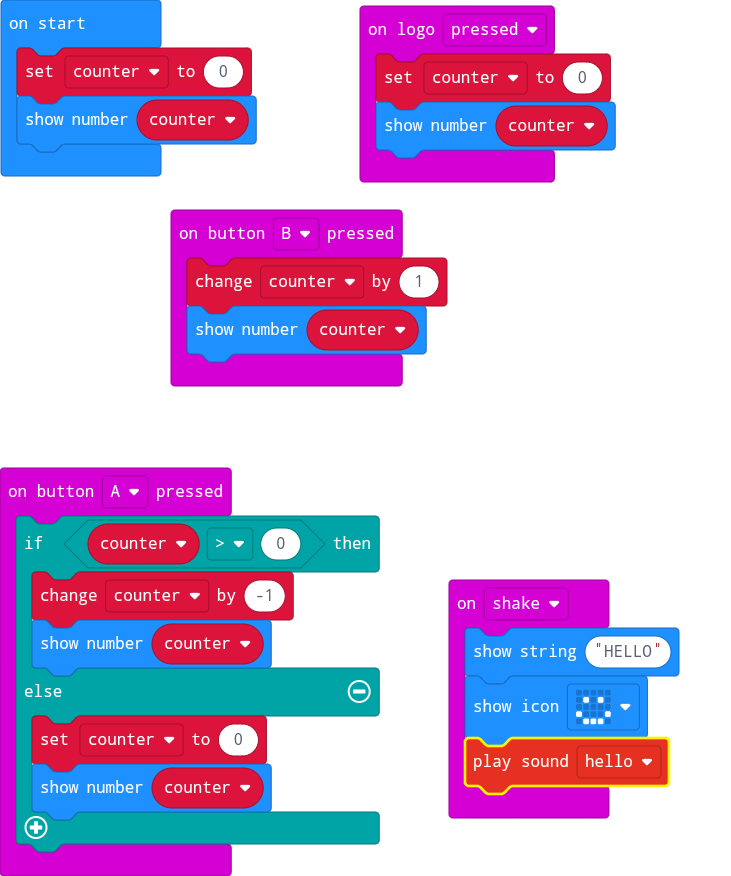
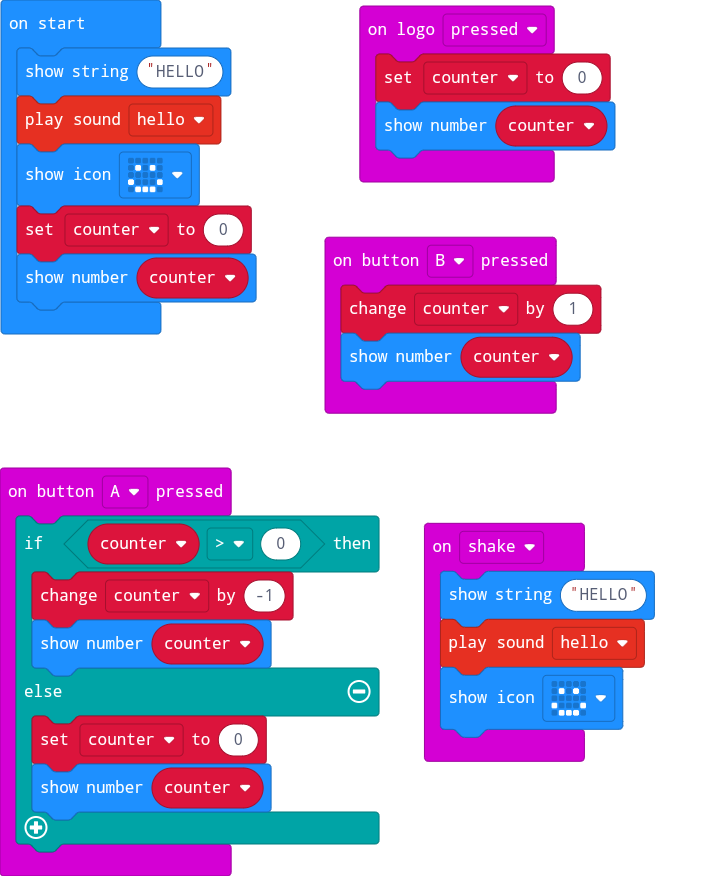
Update main.blocks, main.ts

diff --git a/main.ts b/main.ts
@@ -13,13 +13,16 @@ input.onButtonPressed(Button.B, function () {
 })
 input.onGesture(Gesture.Shake, function () {
     basic.showString("HELLO")
-    basic.showIcon(IconNames.Happy)
     soundExpression.hello.play()
+    basic.showIcon(IconNames.Happy)
 })
 input.onLogoEvent(TouchButtonEvent.Pressed, function () {
     counter = 0
     basic.showNumber(counter)
 })
 let counter = 0
+basic.showString("HELLO")
+soundExpression.hello.play()
+basic.showIcon(IconNames.Happy)
 counter = 0
 basic.showNumber(counter)
